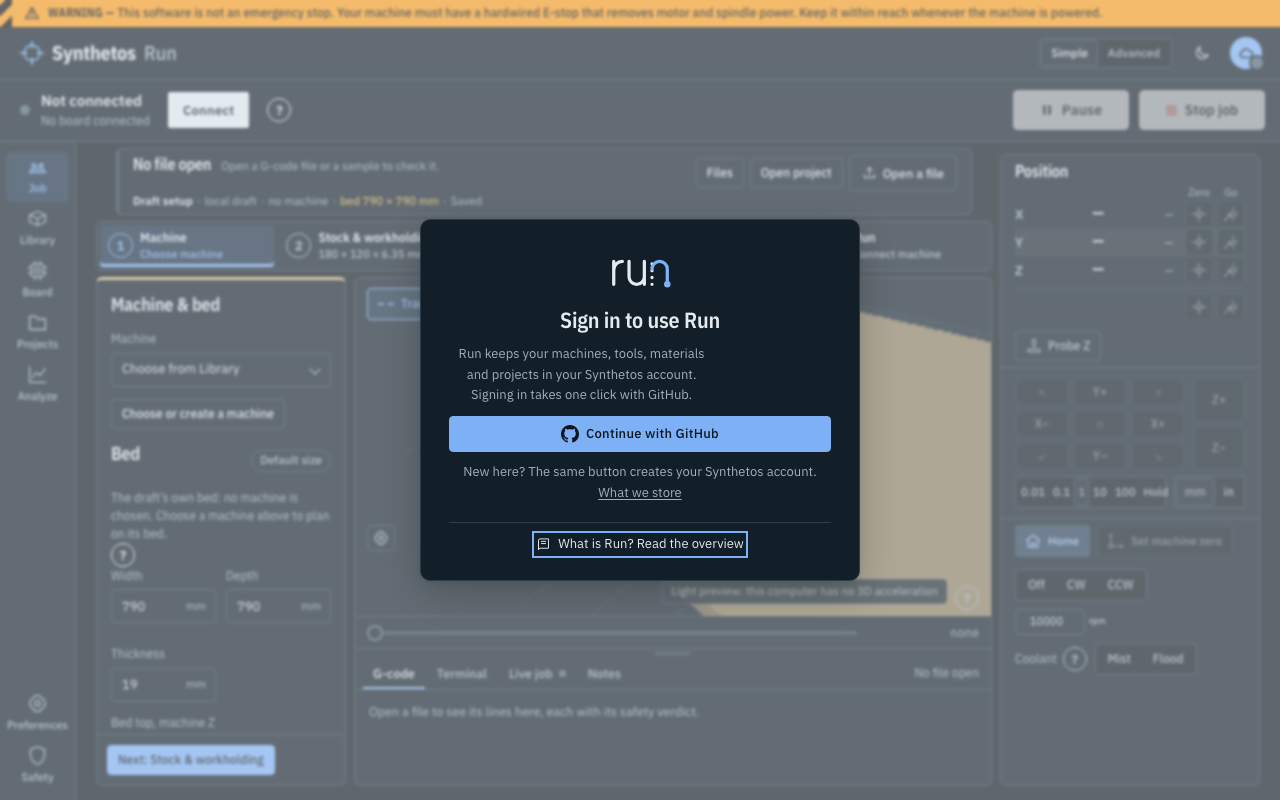
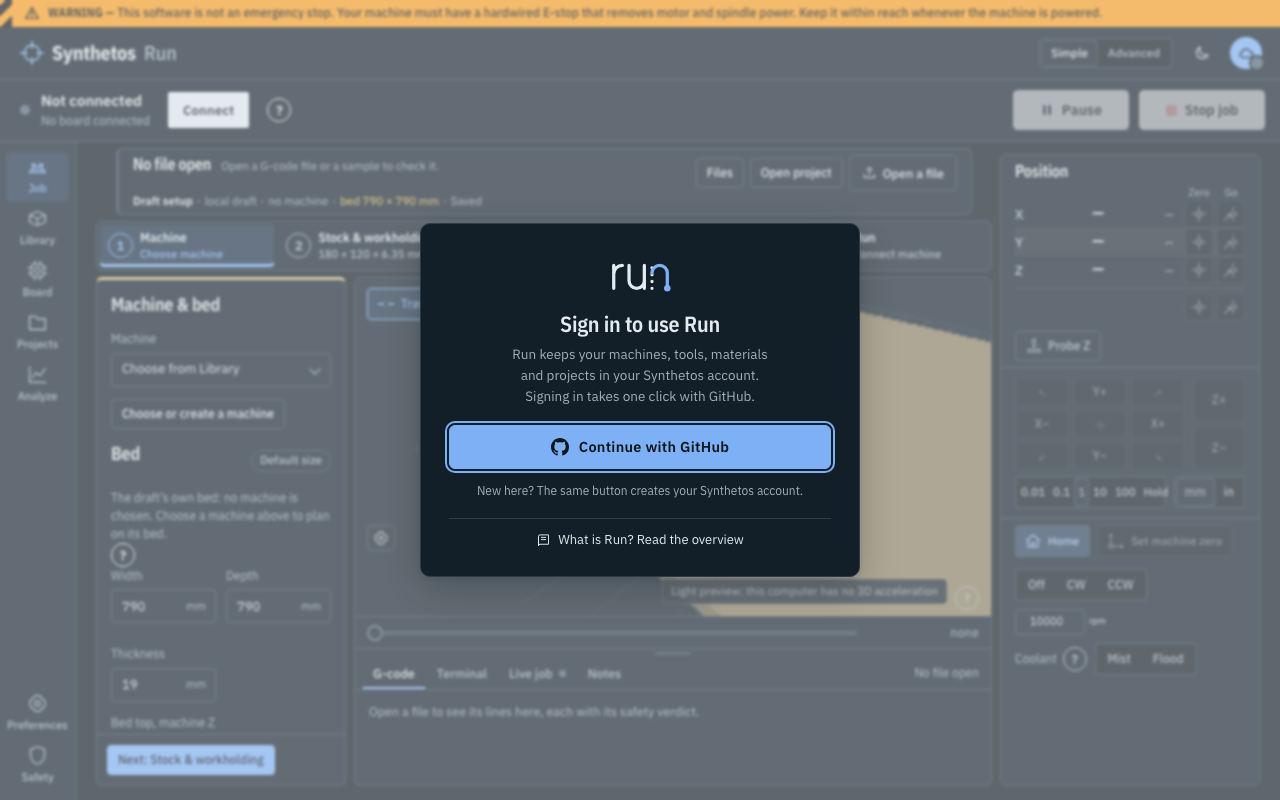
Give the gate's rules the specificity to win; shoot the walkthrough before the Tab walk

diff --git a/apps/web/src/styles/gate.css b/apps/web/src/styles/gate.css
@@ -1,15 +1,16 @@
-/* The sign-in front door (docs/superpowers/specs/2026-11-16-first-run-design.md §5). */
+/* The sign-in front door (docs/superpowers/specs/2026-11-16-first-run-design.md §5). Selectors carry two classes
+   where the shared `.dialog p` and `a.button` rules would otherwise win. */
 .gate-scrim { position: fixed; inset: 0; z-index: calc(var(--z-dialog) + 1); background: color-mix(in srgb, var(--ink) 38%, transparent); backdrop-filter: blur(1.5px); }
 .gate { position: fixed; inset: 0; z-index: calc(var(--z-dialog) + 2); display: flex; align-items: center; justify-content: center; padding: 24px; }
 .gate:focus { outline: none; }
 .gate-dialog { width: 440px; padding: 28px 28px 22px; text-align: center; border-radius: 10px; }
 .gate-dialog > svg { display: block; margin: 0 auto 14px; color: var(--ink); }
 .gate-dialog h2 { font-size: 22px; line-height: 1.25; margin: 2px 0 6px; font-weight: 600; }
-.gate-text { font-size: 13.5px; line-height: 1.55; color: var(--muted); margin: 0 auto 18px; max-width: 34ch; }
-.gate-button { width: 100%; min-height: 44px; gap: 10px; font-size: 14.5px; font-weight: 600; border-radius: 6px; }
-a.gate-button svg { width: 18px; height: 18px; }
-.gate-fine { font-size: 12px; color: var(--muted); margin: 12px 0 0; }
-.gate-fine a { color: inherit; text-decoration: underline; text-underline-offset: 2px; }
+.gate-dialog .gate-text { font-size: 13.5px; line-height: 1.55; color: var(--muted); margin: 0 auto 18px; max-width: 34ch; }
+a.button.gate-button { width: 100%; min-height: 44px; gap: 10px; font-size: 14.5px; font-weight: 600; border-radius: 6px; }
+a.button.gate-button svg { width: 18px; height: 18px; }
+.gate-dialog .gate-fine { font-size: 12px; color: var(--muted); margin: 12px 0 0; }
+.gate-dialog .gate-fine a { color: inherit; text-decoration: underline; text-underline-offset: 2px; }
 .gate-rule { border: 0; border-top: 1px solid var(--rule); margin: 18px 0 12px; }
 .gate-learn { display: inline-flex; align-items: center; gap: 7px; font-size: 13px; color: var(--ink); text-decoration: none; }
 .gate-learn:hover { text-decoration: underline; text-underline-offset: 2px; }

diff --git a/tools/e2e/specs/sign-in-gate.e2e.ts b/tools/e2e/specs/sign-in-gate.e2e.ts
@@ -19,16 +19,16 @@ for (const theme of ['light', 'dark'] as const) {
     await expect(dialog.locator('[data-action="sign-in"]')).toHaveAttribute('href', '/auth/login');
     await expect(dialog.locator('[data-action="sign-in"]')).toBeFocused();
     await expect(page.locator('.app')).toHaveAttribute('inert', '');
-    await page.keyboard.press('Tab'); await expect(dialog.getByRole('link', { name: 'What we store' })).toBeFocused();
-    await page.keyboard.press('Tab'); await expect(dialog.getByRole('link', { name: /Read the overview/ })).toBeFocused();
-    for (let i = 0; i < 8; i += 1) {
-      await page.keyboard.press('Tab');
-      expect(await page.evaluate(() => document.activeElement?.closest('.app') ?? null)).toBeNull();
-    }
+    // The walkthrough pictures show what a first-time visitor sees: the button focused, before any Tab.
     for (const width of [1280, 320]) {
       await page.setViewportSize({ width, height: width === 320 ? 740 : 800 });
       await expect(dialog).toBeVisible();
       if (SCREENSHOTS) await page.screenshot({ path: `${SHOT_DIR}gate-${theme}-${width}.png`, fullPage: false });
+    }
+    await page.keyboard.press('Tab'); await expect(dialog.getByRole('link', { name: /Read the overview/ })).toBeFocused();
+    for (let i = 0; i < 8; i += 1) {
+      await page.keyboard.press('Tab');
+      expect(await page.evaluate(() => document.activeElement?.closest('.app') ?? null)).toBeNull();
     }
   });
 }
